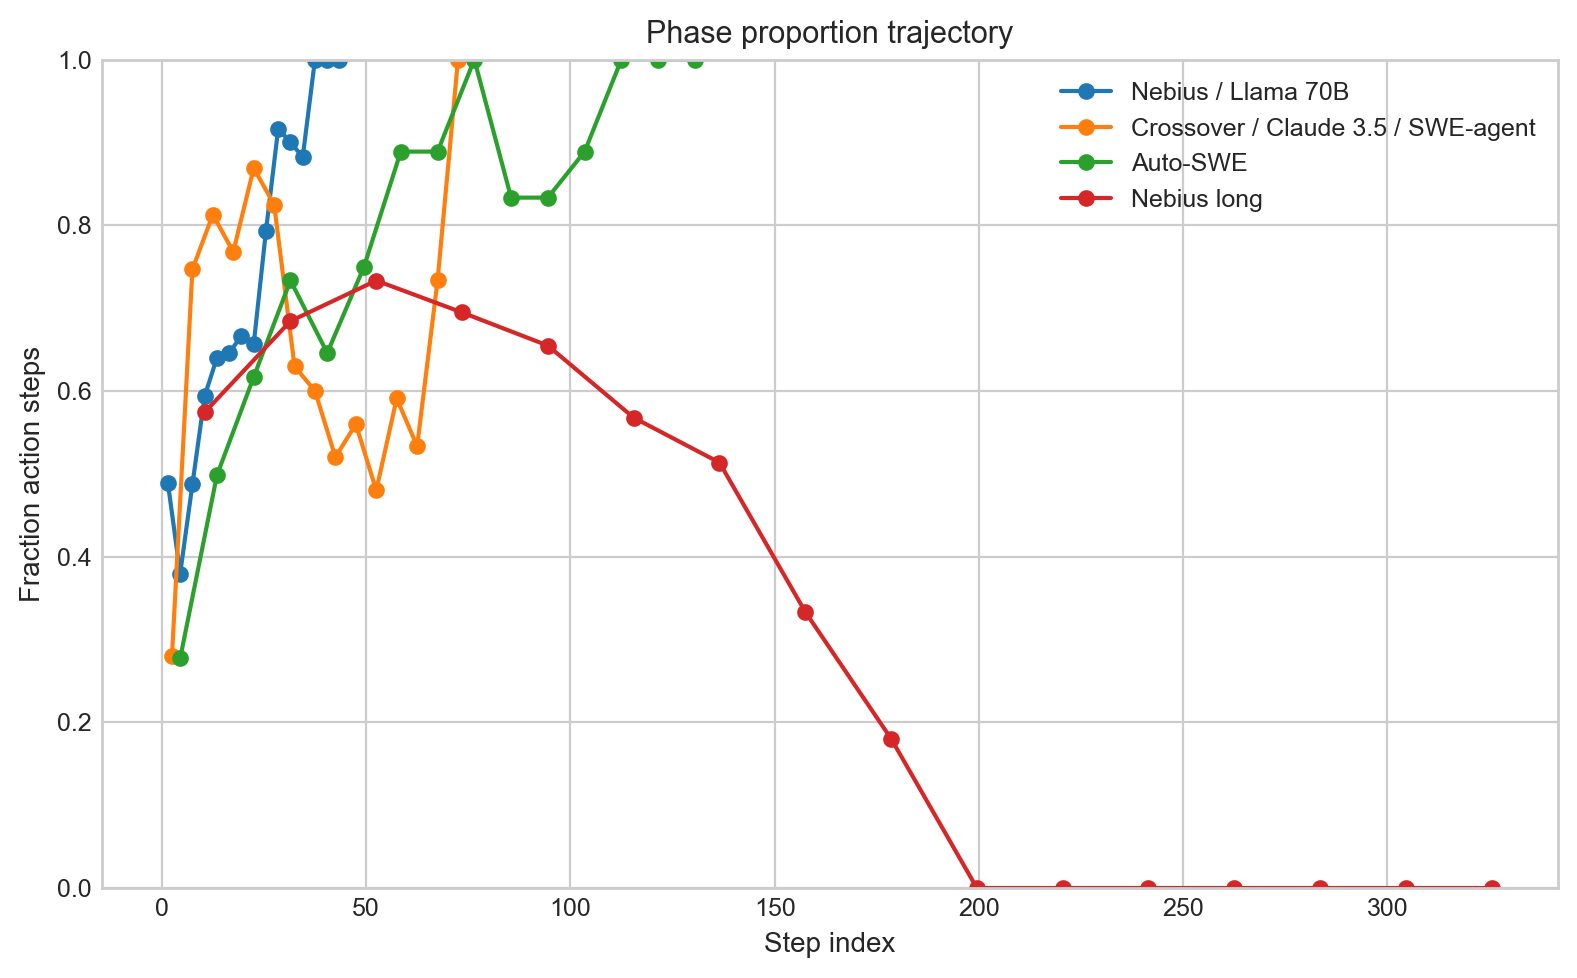
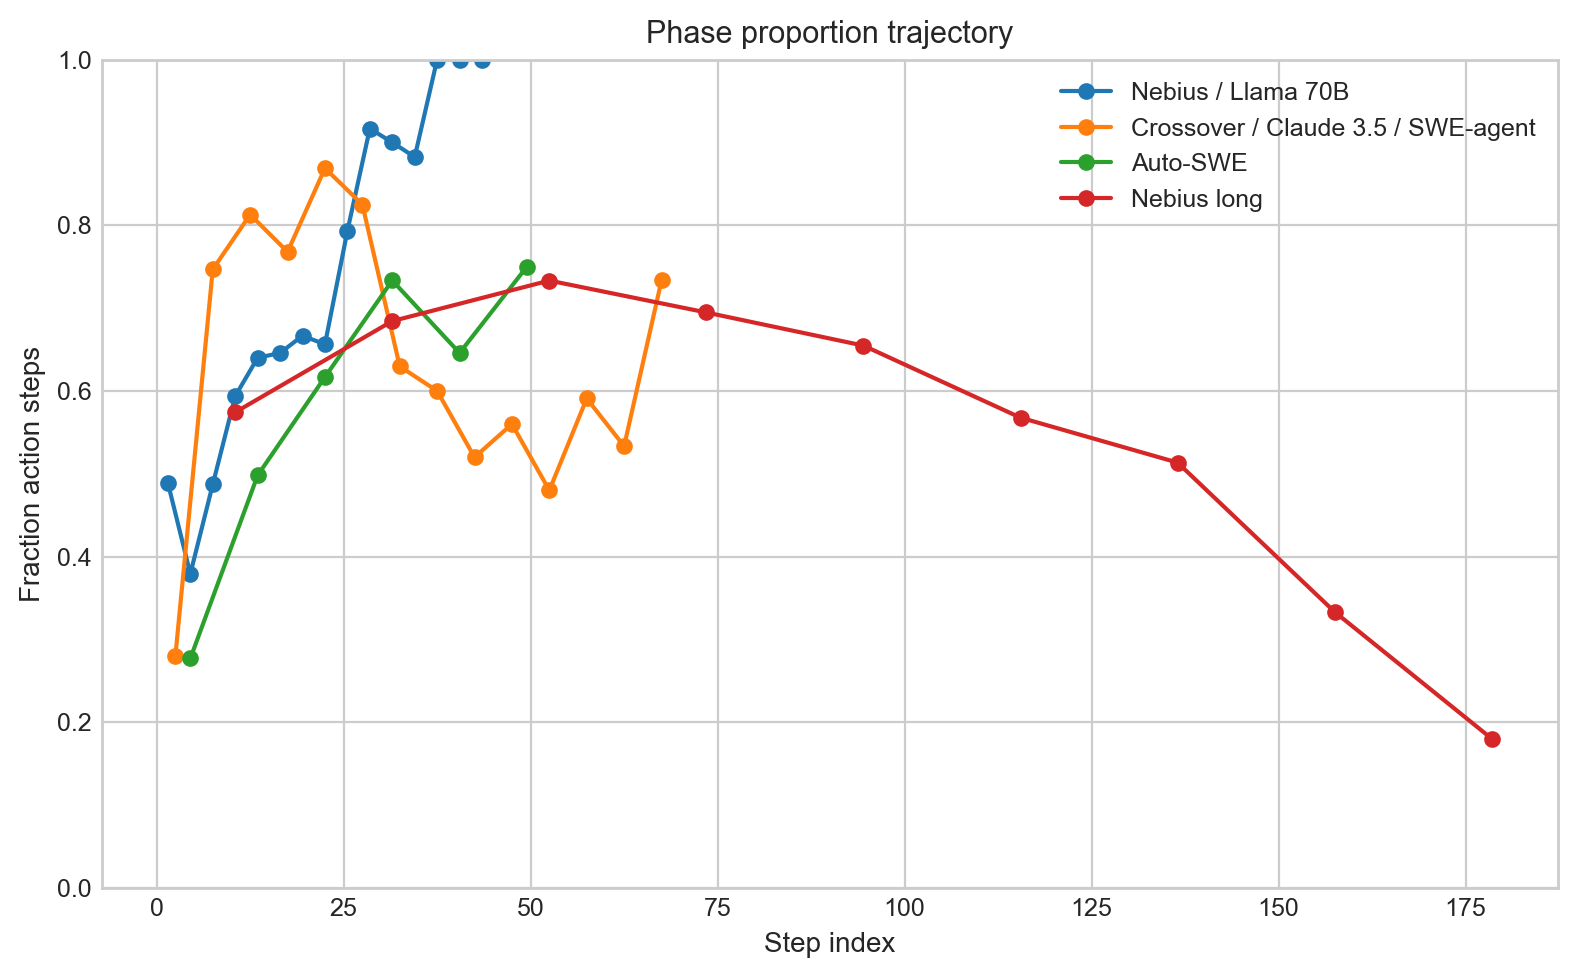
Fix phase proportion figure sparse-bin artifact
Phase proportion figure: filter bins with <3 traces, removing misleading 0% action tail from 1-2 extremely long stuck traces

diff --git a/scripts/generate_figures.py b/scripts/generate_figures.py
@@ -300,8 +300,11 @@ def figure_phase_proportion(output_dir: Path) -> None:
             act_fraction=("step_phase", lambda s: (s == "act").mean()),
             count=("step_phase", "size"),
         ).reset_index()
-        # Drop bins with very few observations
+        # Drop bins with very few traces (avoids 1-2 trace tails
+        # dominating the visual, especially for long-trace configs).
         grouped = grouped[grouped["count"] >= 5]
+        n_traces_per_bin = df.groupby("step_bin")["trace_id"].nunique()
+        grouped = grouped[grouped["step_bin"].map(n_traces_per_bin) >= 3]
         ax.plot(
             grouped["step_bin"], grouped["act_fraction"],
             marker="o", markersize=5, linewidth=1.5, label=config_name,
